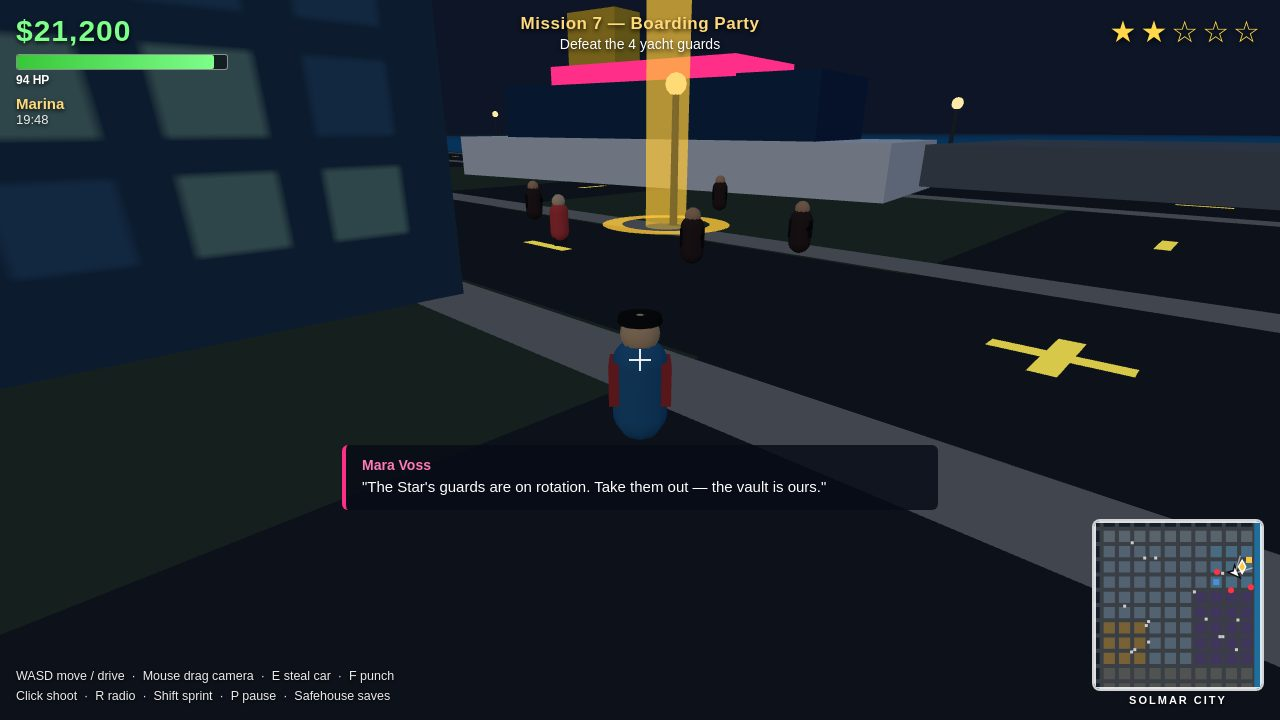
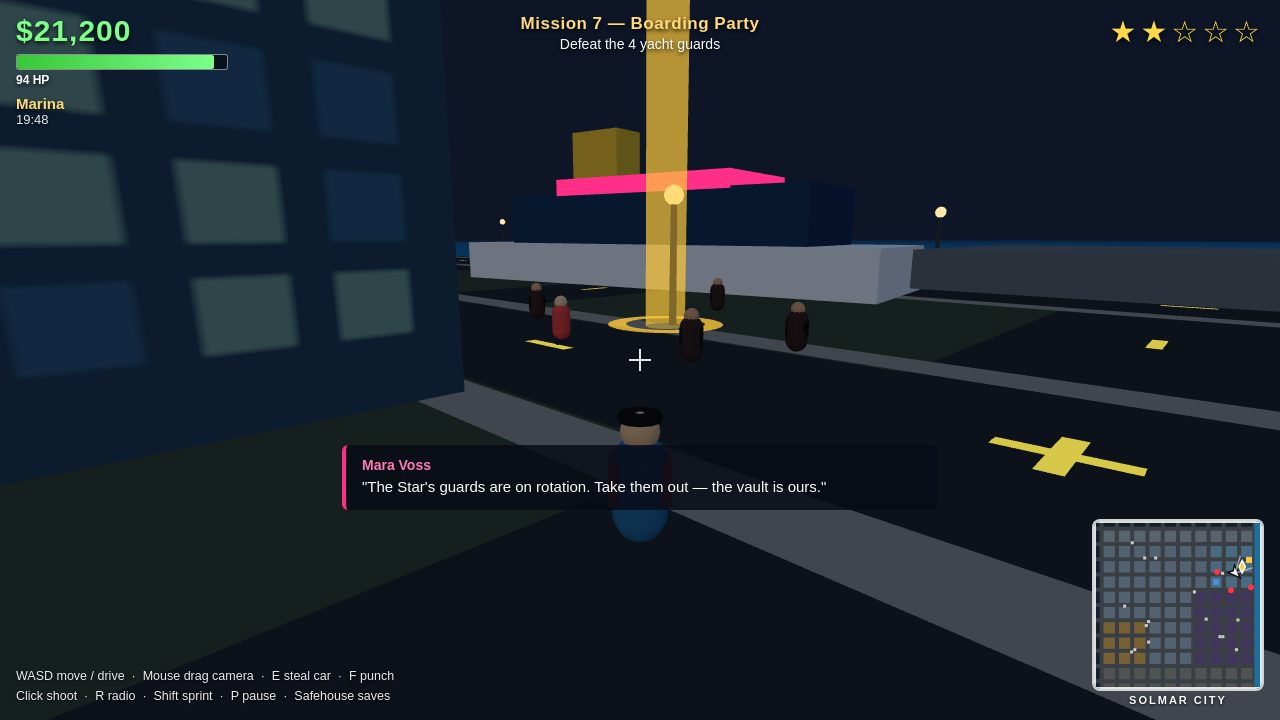
Fix crosshair aim: horizontal hitscan from player chest, camera looks past player

diff --git a/game/src/combat.js b/game/src/combat.js
@@ -82,14 +82,20 @@ export function createCombat(scene, onEvent) {
     return hit;
   };
 
-  // Hitscan shot from the camera through the screen centre.
+  // Hitscan shot: fire from the player's chest along the camera's
+  // horizontal aim direction (screen centre), so the crosshair hits what
+  // it points at at any range instead of diving into the ground.
   state.shoot = function shoot(camera, playerPos) {
     const now = performance.now();
     if (now - state.lastShot < 220) return null;
     state.lastShot = now;
-    const ray = new THREE.Raycaster();
-    ray.setFromCamera(new THREE.Vector2(0, 0), camera);
-    ray.far = 90;
+    const dir = new THREE.Vector3();
+    camera.getWorldDirection(dir);
+    dir.y = 0;
+    if (dir.lengthSq() < 0.01) dir.set(0, 0, 1);
+    dir.normalize();
+    const origin = new THREE.Vector3(playerPos.x, 1.4, playerPos.z);
+    const ray = new THREE.Raycaster(origin, dir, 0.5, 70);
     const meshes = state.enemies.filter((e) => e.alive).map((e) => e.mesh);
     const hits = ray.intersectObjects(meshes, true);
     let hitEnemy = null;
@@ -107,7 +113,7 @@ export function createCombat(scene, onEvent) {
     }
     // Tracer line for feedback.
     const from = new THREE.Vector3(playerPos.x, 1.4, playerPos.z);
-    const to = hits.length > 0 ? hits[0].point : ray.ray.at(60, new THREE.Vector3());
+    const to = hits.length > 0 ? hits[0].point : origin.clone().addScaledVector(dir, 60);
     const tracerGeo = new THREE.BufferGeometry().setFromPoints([from, to]);
     const tracer = new THREE.Line(tracerGeo, new THREE.LineBasicMaterial({ color: 0xffe9a8, transparent: true, opacity: 0.9 }));
     scene.add(tracer);

diff --git a/game/src/main.js b/game/src/main.js
@@ -107,7 +107,7 @@ const G = {
 G.missions = createMissions(scene, onMissionEvent);
 G.combat = createCombat(scene, onCombatEvent);
 G.hud = hud;
-window.__solmar = { G, police, startGame, applyShotPreset: (n) => applyShot(G, n), saveNow };
+window.__solmar = { G, police, camera, startGame, applyShotPreset: (n) => applyShot(G, n), saveNow };
 
 // --- Mission / combat events -------------------------------------------------
 function onMissionEvent(kind, data) {
@@ -437,7 +437,13 @@ function updateCamera(dt) {
       h,
       G.playerZ - Math.cos(G.camYaw) * back,
     );
-    lookAt = new THREE.Vector3(G.playerX, 1.6, G.playerZ);
+    // Look past the player so the crosshair sits on what is ahead, not on
+    // the player: the player frames at the bottom, targets at the centre.
+    lookAt = new THREE.Vector3(
+      G.playerX + Math.sin(G.camYaw) * 8,
+      1.5,
+      G.playerZ + Math.cos(G.camYaw) * 8,
+    );
   }
   // Keep the camera out of buildings.
   const fixed = resolveBuildingCollision(city.colliders, targetPos.x, targetPos.z, 1);
